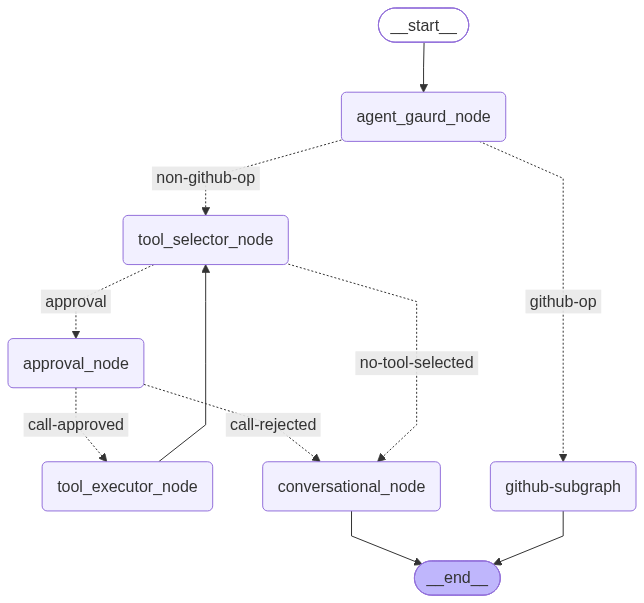
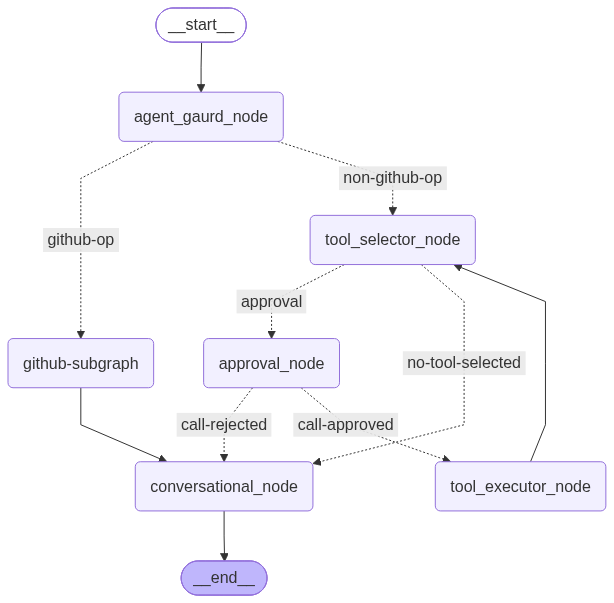
github sub Graph Approval comleted

diff --git a/mcp-client/client.py b/mcp-client/client.py
@@ -2,6 +2,7 @@ import secrets
 from contextlib import asynccontextmanager
 from pathlib import Path
 from typing import Annotated
+import json
 
 from dotenv import load_dotenv
 from fastapi import Depends, FastAPI, Header, HTTPException
@@ -43,6 +44,19 @@ def get_tool_catalog(tools: list[BaseTool]) -> list[dict]:
         }
         for tool in tools
     ]
+
+
+def github_result(state: dict) -> str | None:
+    if state.get("mcpServer") != "github":
+        return None
+    if not state.get("github_auth_token_validated"):
+        return "GitHub authorization failed. Authorize GitHub again and retry your request."
+    if state.get("github_auth_flow"):
+        return "GitHub authorization succeeded. Rerun your GitHub query."
+    if not state.get("git_hub_session_completed"):
+        return "The GitHub request could not be completed. Please try again."
+    answer = state.get("github_answer")
+    return answer.content if answer else "GitHub request completed."
 
 
 @asynccontextmanager
@@ -111,7 +125,7 @@ async def chat(req: Request):
             "thread_id": req.user_id,
             "interrupt": interrupt.value,
         }
-    return {"result": state["messages"][-1].content, "status": "completed"}
+    return {"result": github_result(state) or state["messages"][-1].content, "status": "completed"}
 
 
 @app.post("/resume")
@@ -133,7 +147,8 @@ async def chatR(req: Request):
             "interrupt": interrupt.value,
         }
 
-    return {"result": state["messages"][-1].content, "status": "completed"}
+
+    return {"result": github_result(state) or state["messages"][-1].content, "status": "completed"}
 
 
 @app.get("/github-auth")
@@ -200,9 +215,11 @@ async def gitHubCallBack(request: FastAPIRequest, code: str = None, state: str =
                 f"http://127.0.0.1:8501/?github_auth=failed&user_id={user_id}",
                 status_code=303,
             )
-    except:
-        return {"result": "GitHub Auth Failed", "status": "completed"}
-
+    except Exception as e :
+            return RedirectResponse(
+                f"http://127.0.0.1:8501/?github_auth=failed&user_id={user_id}",
+                status_code=303,
+            )
 
 def getGitHubUser(user_id: str):
     token = token_db.get(user_id, None)
@@ -219,8 +236,8 @@ async def latest_messages(
 ):
     config = {"configurable": {"thread_id": user_id}}
     snapshot = await app.state.agent.aget_state(config)
-    github_query = snapshot.values.get("user_query", [])
-    auth_result=f"Successfully authorized : GitHub Account {userJson}" if userJson else "Authorization Failed"
+    github_query = snapshot.values.get("user_query", "")
+    auth_result=f"Successfully authorized : GitHub Account:  {userJson["name"]}, {userJson["login"]}" if userJson else "Authorization Failed"
 
     return {
         "result": f"{auth_result} \n Rerun the github Query",

diff --git a/mcp-client/graph/github_subgraph.py b/mcp-client/graph/github_subgraph.py
@@ -4,10 +4,16 @@
 
 from typing import TypedDict
 
+from langchain_core.runnables import RunnableConfig
+
 from graph.state import SubGraphState
-from langgraph.graph import END, StateGraph
+from langgraph.graph import END, START, StateGraph
 from nodes.github_token_validator_node import git_token_validator_node
 from nodes.github_execution_node import github_execution_node
+from nodes.github_token_interupt_node import github_token_interupt_node
+from github_service import is_token_valid
+from DB.token_storage import oauth_db, token_db
+
 
 def auth_check(state: SubGraphState):
     if state["github_auth_token_validated"]:
@@ -15,20 +21,33 @@ def auth_check(state: SubGraphState):
             return "github_auth_flow"
         return "authenticated"
     if state["auth_retry"] ==2:
-        state["auth_retry"] =1
         return "authenticated-failed"
-    state["auth_retry"] +=1
     return "auth-retry"
+
+def is_token_valid_condition(state: SubGraphState, config: RunnableConfig):
+    user_id = config["configurable"]["thread_id"]
+    if state["github_auth_token_validated"]:
+        return "token-valid"
+    else:
+        return "invalid-token"
 sub_graph_builder = StateGraph(SubGraphState)
 sub_graph_builder.add_node("github_token_validator_node", git_token_validator_node)
 sub_graph_builder.add_node("github_execution_node", github_execution_node)
+sub_graph_builder.add_node("github_token_interupt_node",github_token_interupt_node)
 
 sub_graph_builder.set_entry_point("github_token_validator_node")
-sub_graph_builder.add_conditional_edges("github_token_validator_node",auth_check,
+sub_graph_builder.add_conditional_edges("github_token_validator_node",is_token_valid_condition,
+                                  {"invalid-token":"github_token_interupt_node",
+                                   "token-valid":"github_execution_node"})
+
+sub_graph_builder.add_conditional_edges("github_token_interupt_node",auth_check,
                                         {   "github_auth_flow":END,
                                             "authenticated":"github_execution_node",
-                                            "auth-retry":"github_token_validator_node",
+                                            "auth-retry":"github_token_interupt_node",
                                             "authenticated-failed":END
                                         })
 sub_graph_builder.add_edge("github_execution_node", END)
 github_sub_graph = sub_graph_builder.compile()
+
+
+github_sub_graph.get_graph().draw_mermaid_png(output_file_path="github-subgraph.png")

diff --git a/mcp-client/nodes/github_token_interupt_node.py b/mcp-client/nodes/github_token_interupt_node.py
@@ -1,0 +1,40 @@
+from fastmcp import Client
+from fastmcp.client.auth import BearerAuth
+from graph.state import SubGraphState
+from langchain.agents import create_agent
+from langchain.agents.middleware import HumanInTheLoopMiddleware
+from langchain.mcp import MCPAdapter
+from langchain_core.messages import HumanMessage
+from langchain_core.runnables import RunnableConfig
+from langgraph.types import Command, interrupt
+from langgraph.checkpoint.memory import InMemorySaver
+from DB.token_storage import oauth_db, token_db
+
+
+def github_token_interupt_node(state: SubGraphState):
+    approved = interrupt(
+            {
+                "MCP Server": "GitHub",
+                "message": "GitHub authorization required",
+            }
+        )
+    if approved["action"] == "auth-Failed":
+        return {
+                    "github_auth_flow":True,
+                    "auth_retry" :state.get("auth_retry",0)+1,
+                    }
+    else:
+        return {"github_auth_token_validated":True,
+                "github_auth_flow":True,
+                "github_messages":HumanMessage(content=state["user_query"]),
+                "auth_retry":0}
+            
+            
+
+
+        
+
+
+
+
+

diff --git a/mcp-client/nodes/github_token_validator_node.py b/mcp-client/nodes/github_token_validator_node.py
@@ -14,25 +14,13 @@ from github_service import is_token_valid
 
 def git_token_validator_node(state: SubGraphState, config: RunnableConfig):
     user_id = config["configurable"]["thread_id"]
-    access_token = token_db.get(user_id)
-    state["github_auth_token_validated"]=False
-    state["git_hub_session_completed"]=False
-    state["github_messages"]= HumanMessage(content=state["user_query"])
+    isValid= is_token_valid(token_db.get(user_id,None))
+    return {
+        "git_hub_session_completed":False,
+        "github_auth_token_validated":isValid,
+        "auth_retry":0
+    }
 
-    if is_token_valid(token=access_token):
-        state["github_auth_flow"]=False
-        return {"github_auth_token_validated": True}
-    else:
-        state["github_auth_flow"]=True
-        approved = interrupt(
-            {
-                "MCP Server": "GitHub",
-                "message": "GitHub authorization required",
-            }
-        )
-        if approved["action"] == "auth-failed":
-            return {"github_auth_token_validated": False}
-        return {"github_auth_token_validated": True}
             
             
 

diff --git a/mcp-client/graph/graph.py b/mcp-client/graph/graph.py
@@ -61,7 +61,7 @@ def build_graph(tools, tool_catalog):
             tool_call_present,
             {"approval": "approval_node", "no-tool-selected": "conversational_node"},
         )
-        .add_conditional_edges("github-subgraph","conversational_node")
+        .add_edge("github-subgraph","conversational_node")
         .add_conditional_edges(
             "approval_node",
             approved_tool_execution,

diff --git a/mcp-client/graph/state.py b/mcp-client/graph/state.py
@@ -35,3 +35,4 @@ class SubGraphState(TypedDict):
     git_hub_session_completed: bool
     user_id: str
     github_auth_token_validated:bool
+    auth_retry:int
